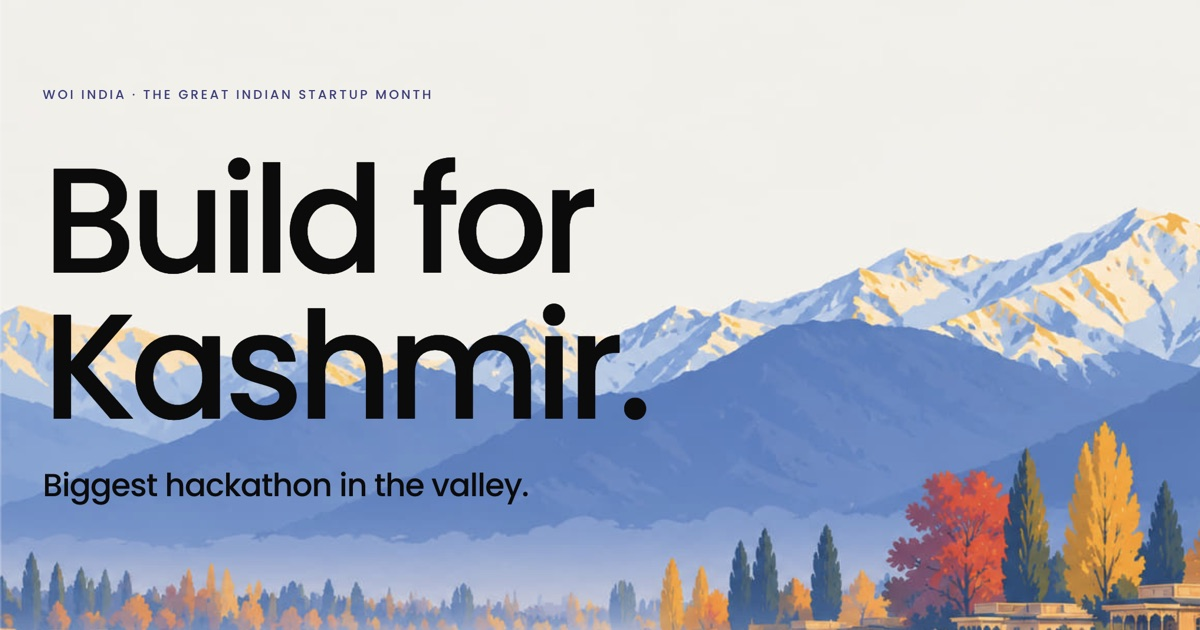
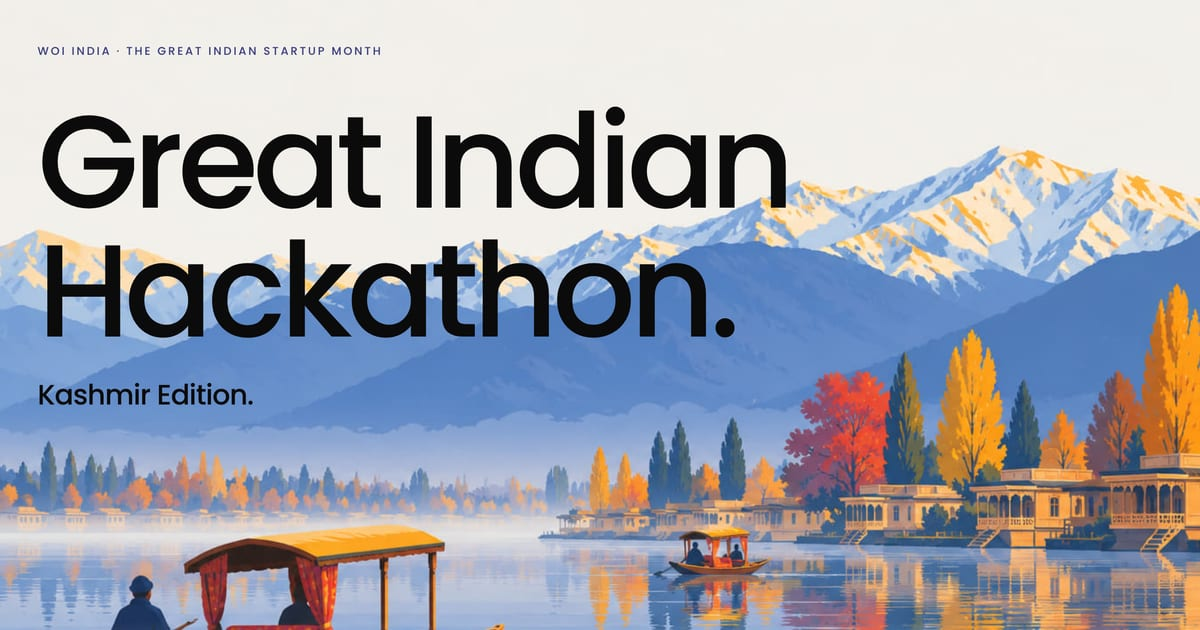
Rebrand to Great Indian Hackathon – Kashmir Edition
- Rename the event across the site, page descriptions, README and package name
- New hero headline and a fresh link preview image with the new name
- Add the campaign badge beside the final call to action
- Add the Government of J&K to "Who's behind it" and reorder the
  organisers: J&K Government, J&K EDI, GISM, WOI India
- Explain on localhost that the waitlist only works on the deployed site

diff --git a/content/site.ts b/content/site.ts
@@ -2,8 +2,8 @@
 // Anything set to null shows a "coming soon" line on the site instead.
 
 export const site = {
-  name: "Build for Kashmir",
-  fullName: "Build for Kashmir Hackathon",
+  name: "Great Indian Hackathon",
+  fullName: "Great Indian Hackathon – Kashmir Edition",
   tagline: "Ideas from the valley, built for the valley.",
   description:
     "A free hackathon in Srinagar for students, developers, designers and founders building technology for real problems in Jammu & Kashmir. November 2026.",
@@ -50,6 +50,9 @@ export const site = {
     note: "We'll email you once, when registrations open. No spam.",
     success: "You're on the list. We'll email you when registrations open.",
     error: "That didn't go through. Please try again in a moment.",
+    // Only shown when running `npm run dev`. Netlify Forms needs the deployed site.
+    devError:
+      "Local preview: Netlify Forms only receives submissions on the deployed Netlify site, so this can't be sent from localhost.",
     // Hidden spam trap. People never see it; bots that fill it in are dropped by Netlify.
     honeypotLabel: "Leave this empty",
   },
@@ -96,8 +99,8 @@ export const campaignLink = {
 export const copy = {
   hero: {
     label: "WOI India · The Great Indian Startup Month",
-    headline: ["Build for", "Kashmir."],
-    kicker: "Biggest hackathon in the valley.",
+    headline: ["Great Indian", "Hackathon."],
+    kicker: "Kashmir Edition.",
     secondaryCta: { label: "See the tracks", href: "#tracks" },
   },
   about: {
@@ -106,7 +109,7 @@ export const copy = {
     href: "/about",
     more: "About the event and organisers",
     description:
-      "What Build for Kashmir is, who it's for, and who's organising it: WOI India, The Great Indian Startup Month and J&K EDI.",
+      "What the Great Indian Hackathon – Kashmir Edition is, who it's for, and who's organising it: WOI India, The Great Indian Startup Month and J&K EDI.",
     body: [
       "A free hackathon in Srinagar where teams build working prototypes for everyday problems in J&K, like apple growers who can't see a fair price, artisans who can't prove their Pashmina is real, and villages cut off every winter. Anyone who wants to build something useful is welcome, coder or not.",
     ],
@@ -123,7 +126,7 @@ export const copy = {
     href: "/tracks",
     more: "See what each track covers",
     description:
-      "The seven Build for Kashmir tracks: horticulture, tourism, handicrafts, public services, environment, healthcare and youth employment.",
+      "The seven Great Indian Hackathon – Kashmir Edition tracks: horticulture, tourism, handicrafts, public services, environment, healthcare and youth employment.",
     note: "The detailed problem statements are being written with J&K EDI and government departments.",
   },
   format: {
@@ -133,7 +136,7 @@ export const copy = {
     href: "/how-it-works",
     more: "Full format, workshops and judging",
     description:
-      "How Build for Kashmir works: six steps from picking a problem to the final demo, the workshops and mentorship, and how projects are judged.",
+      "How the Great Indian Hackathon – Kashmir Edition works: six steps from picking a problem to the final demo, the workshops and mentorship, and how projects are judged.",
     intro:
       "Six steps from picking a problem to standing in front of the jury. You won't be building alone at any point.",
     programmeLabel: "Programme",
@@ -153,7 +156,7 @@ export const copy = {
     label: "Schedule",
     heading: "Schedule.",
     href: "/schedule",
-    description: "The Build for Kashmir event schedule, day by day.",
+    description: "The Great Indian Hackathon – Kashmir Edition schedule, day by day.",
     empty: "The full schedule goes live once dates are confirmed.",
   },
   judging: {
@@ -183,11 +186,18 @@ export const copy = {
     href: "/faq",
     more: "All questions",
     description:
-      "Answers on who can take part, cost, teams, venue, food, travel, ownership and what happens after Build for Kashmir.",
+      "Answers on who can take part, cost, teams, venue, food, travel, ownership and what happens after the Great Indian Hackathon.",
     ask: "Didn't find your answer? Get in touch with WOI India through",
   },
   finalCta: {
     heading: "Got an idea for Kashmir? Come build it.",
+    // Trimmed from public/logos/gism-campaign-logo.png, which has wide empty margins.
+    image: {
+      src: "/logos/gism-campaign.png",
+      alt: "The Great Indian Startup Month, November 2026, badge with WOI India, DPIIT #startupindia and media partner YourStory",
+      width: 900,
+      height: 1087,
+    },
   },
   footer: {
     linksHeading: "Links",

diff --git a/components/sections/FinalCta.tsx b/components/sections/FinalCta.tsx
@@ -1,34 +1,50 @@
+import Image from "next/image";
 import { copy, site } from "@/content/site";
 import { Container } from "../Container";
 import { RegisterButton } from "../RegisterButton";
 import { WaitlistForm } from "../WaitlistForm";
 
+const { image } = copy.finalCta;
+
+// Heading and sign-up on the left, campaign badge on the right. On mobile the badge sits below.
 export function FinalCta() {
   return (
     <section aria-labelledby="cta-heading" className="border-t border-line py-24 md:py-36 lg:py-44">
       <Container>
-        <div data-reveal>
-          <h2
-            id="cta-heading"
-            className="max-w-[14ch] text-[clamp(2.75rem,7.5vw,6.5rem)] leading-[1.02] font-medium tracking-tightest text-balance"
-          >
-            {copy.finalCta.heading}
-          </h2>
-          {!site.registrationOpen && site.waitlist.enabled ? (
-            <div className="mt-12 max-w-xl">
-              <WaitlistForm />
-              <p className="mt-6 text-sm text-muted">
-                {site.city} · {site.dates ?? site.month} · {site.cost}
-              </p>
-            </div>
-          ) : (
-            <div className="mt-12 flex flex-wrap items-center gap-x-8 gap-y-4">
-              <RegisterButton />
-              <p className="text-sm text-muted">
-                {site.city} · {site.dates ?? site.month} · {site.cost}
-              </p>
-            </div>
-          )}
+        <div data-reveal className="grid grid-cols-12 items-center gap-x-6 gap-y-16 lg:gap-x-8">
+          <div className="col-span-12 min-w-0 lg:col-span-8">
+            <h2
+              id="cta-heading"
+              className="max-w-[14ch] text-[clamp(2.75rem,7.5vw,6.5rem)] leading-[1.02] font-medium tracking-tightest text-balance"
+            >
+              {copy.finalCta.heading}
+            </h2>
+            {!site.registrationOpen && site.waitlist.enabled ? (
+              <div className="mt-12 max-w-xl">
+                <WaitlistForm />
+                <p className="mt-6 text-sm text-muted">
+                  {site.city} · {site.dates ?? site.month} · {site.cost}
+                </p>
+              </div>
+            ) : (
+              <div className="mt-12 flex flex-wrap items-center gap-x-8 gap-y-4">
+                <RegisterButton />
+                <p className="text-sm text-muted">
+                  {site.city} · {site.dates ?? site.month} · {site.cost}
+                </p>
+              </div>
+            )}
+          </div>
+          <div className="col-span-8 col-start-3 sm:col-span-6 sm:col-start-4 lg:col-span-4 lg:col-start-9">
+            <Image
+              src={image.src}
+              alt={image.alt}
+              width={image.width}
+              height={image.height}
+              sizes="(min-width: 1024px) 33vw, 60vw"
+              className="mx-auto h-auto w-full max-w-sm"
+            />
+          </div>
         </div>
       </Container>
     </section>

diff --git a/content/team.ts b/content/team.ts
@@ -18,31 +18,19 @@ export type Organiser = {
   logo: Logo | null;
 };
 
+// Shown in this order.
 export const organisers: Organiser[] = [
   {
-    role: "Organised by",
-    name: "WOI India",
+    role: "Supported by",
+    name: "Government of Jammu and Kashmir",
     about:
-      "WOI India runs hackathons and startup programmes that put builders in front of real problems. Build for Kashmir is its first edition in the valley.",
-    href: "https://woiindia.com",
+      "Government departments in J&K are working with J&K EDI on the problem statements, so teams build for problems the departments want solved.",
+    href: "https://jk.gov.in",
     logo: {
-      src: "/logos/woi-logo-onLight.png",
-      alt: "WOI India logo",
-      width: 600,
-      height: 224,
-    },
-  },
-  {
-    role: "Part of",
-    name: "The Great Indian Startup Month",
-    about:
-      "A national startup campaign that runs through November 2026. Build for Kashmir is its Srinagar chapter.",
-    href: "https://thegreatindianstartupmonth.com",
-    logo: {
-      src: "/logos/gism-badge.png",
-      alt: "The Great Indian Startup Month, November 2026 campaign badge",
-      width: 560,
-      height: 670,
+      src: "/logos/jk-government.png",
+      alt: "Government of Jammu and Kashmir emblem",
+      width: 201,
+      height: 320,
     },
   },
   {
@@ -56,6 +44,32 @@ export const organisers: Organiser[] = [
       alt: "Jammu & Kashmir Entrepreneurship Development Institute logo",
       width: 560,
       height: 431,
+    },
+  },
+  {
+    role: "Part of",
+    name: "The Great Indian Startup Month",
+    about:
+      "A national startup campaign that runs through November 2026. The Great Indian Hackathon – Kashmir Edition is its Srinagar chapter.",
+    href: "https://thegreatindianstartupmonth.com",
+    logo: {
+      src: "/logos/gism-badge.png",
+      alt: "The Great Indian Startup Month, November 2026 campaign badge",
+      width: 560,
+      height: 670,
+    },
+  },
+  {
+    role: "Organised by",
+    name: "WOI India",
+    about:
+      "WOI India runs hackathons and startup programmes that put builders in front of real problems. The Great Indian Hackathon – Kashmir Edition is its first edition in the valley.",
+    href: "https://woiindia.com",
+    logo: {
+      src: "/logos/woi-logo-onLight.png",
+      alt: "WOI India logo",
+      width: 600,
+      height: 224,
     },
   },
 ];

diff --git a/components/sections/Organisers.tsx b/components/sections/Organisers.tsx
@@ -10,30 +10,29 @@ export function Organisers() {
       <SectionHeading id="organisers" label={copy.organisers.label} heading={copy.organisers.heading} />
 
       <div className="mt-14 grid grid-cols-12 gap-x-6 md:mt-20 lg:gap-x-8">
-        <ul className="col-span-12 grid grid-cols-1 border-t border-line md:grid-cols-3 lg:col-span-9 lg:col-start-4">
-          {organisers.map((org, i) => (
-            <li
-              key={org.name}
-              className={`border-b border-line py-8 md:border-b-0 md:pr-6 ${i > 0 ? "md:border-l md:pl-6" : ""}`}
-              data-reveal
-            >
+        {/* Two columns on tablets, four on wide screens. Each card has its own top rule so
+            the grid works for any number of organisers. */}
+        <ul className="col-span-12 grid grid-cols-1 gap-x-6 md:grid-cols-2 lg:col-span-9 lg:col-start-4 xl:grid-cols-4">
+          {organisers.map((org) => (
+            <li key={org.name} className="border-t border-line py-8" data-reveal>
               <p className="label-muted">{org.role}</p>
               {org.logo && (
-                <div className="mt-5 w-32">
+                // Fixed-height box so tall emblems and wide wordmarks line up.
+                <div className="mt-5 flex h-20 items-center">
                   <Image
                     src={org.logo.src}
                     alt={org.logo.alt}
                     width={org.logo.width}
                     height={org.logo.height}
                     sizes="144px"
-                    className="h-auto w-full"
+                    className="h-auto max-h-20 w-auto max-w-32"
                   />
                 </div>
               )}
               <h3 className="mt-4 text-xl leading-snug font-medium">{org.name}</h3>
               <p className="mt-3 text-sm text-muted">{org.about}</p>
               {org.href && (
-                <a href={org.href} className="link-underline mt-4 inline-block text-sm">
+                <a href={org.href} className="link-underline mt-4 inline-block text-sm [overflow-wrap:anywhere]">
                   {org.href.replace(/^https?:\/\//, "")}
                 </a>
               )}

diff --git a/content/pages.ts b/content/pages.ts
@@ -19,7 +19,7 @@ export const codeOfConduct: ProsePage = {
   label: "Code of Conduct",
   title: "Code of Conduct.",
   intro:
-    "Build for Kashmir should be a good experience for everyone who comes, whatever their background, skill level or reason for being there. This code applies to participants, mentors, judges, volunteers, partners and organisers, at the venue, online and at any related event.",
+    "The Great Indian Hackathon – Kashmir Edition should be a good experience for everyone who comes, whatever their background, skill level or reason for being there. This code applies to participants, mentors, judges, volunteers, partners and organisers, at the venue, online and at any related event.",
   updated: "Last updated October 2026",
   sections: [
     {
@@ -70,7 +70,7 @@ export const rules: ProsePage = {
   label: "Rules",
   title: "Rules.",
   intro:
-    "These are the rules for Build for Kashmir. If anything is added or changed, we'll update this page and tell registered participants first.",
+    "These are the rules for the Great Indian Hackathon – Kashmir Edition. If anything is added or changed, we'll update this page and tell registered participants first.",
   updated: "Last updated October 2026",
   sections: [
     {

diff --git a/components/WaitlistForm.tsx b/components/WaitlistForm.tsx
@@ -10,6 +10,8 @@ type Props = {
 
 type Status = "idle" | "sending" | "done" | "error";
 
+const isDev = process.env.NODE_ENV === "development";
+
 // Email waitlist, handled by Netlify Forms. Netlify finds the form through the static copy in
 // public/__forms.html at deploy time, and this component posts to that file.
 // Without JavaScript the form still posts normally and Netlify records it.
@@ -88,7 +90,7 @@ export function WaitlistForm({ id, className = "" }: Props) {
             {waitlist.note}
           </p>
           <p role="status" aria-live="polite" className="mt-2 text-sm text-fg empty:hidden">
-            {status === "error" ? waitlist.error : ""}
+            {status === "error" ? (isDev ? waitlist.devError : waitlist.error) : ""}
           </p>
         </form>
       )}

diff --git a/README.md b/README.md
@@ -1,6 +1,6 @@
-# Build for Kashmir
+# Great Indian Hackathon – Kashmir Edition
 
-The website for the Build for Kashmir Hackathon, organised by WOI India as part of
+The website for the Great Indian Hackathon – Kashmir Edition, organised by WOI India as part of
 The Great Indian Startup Month, with J&K EDI as institutional partner. Srinagar, November 2026.
 
 Built with Next.js (App Router, static export), TypeScript and Tailwind CSS. The only font is Poppins.
